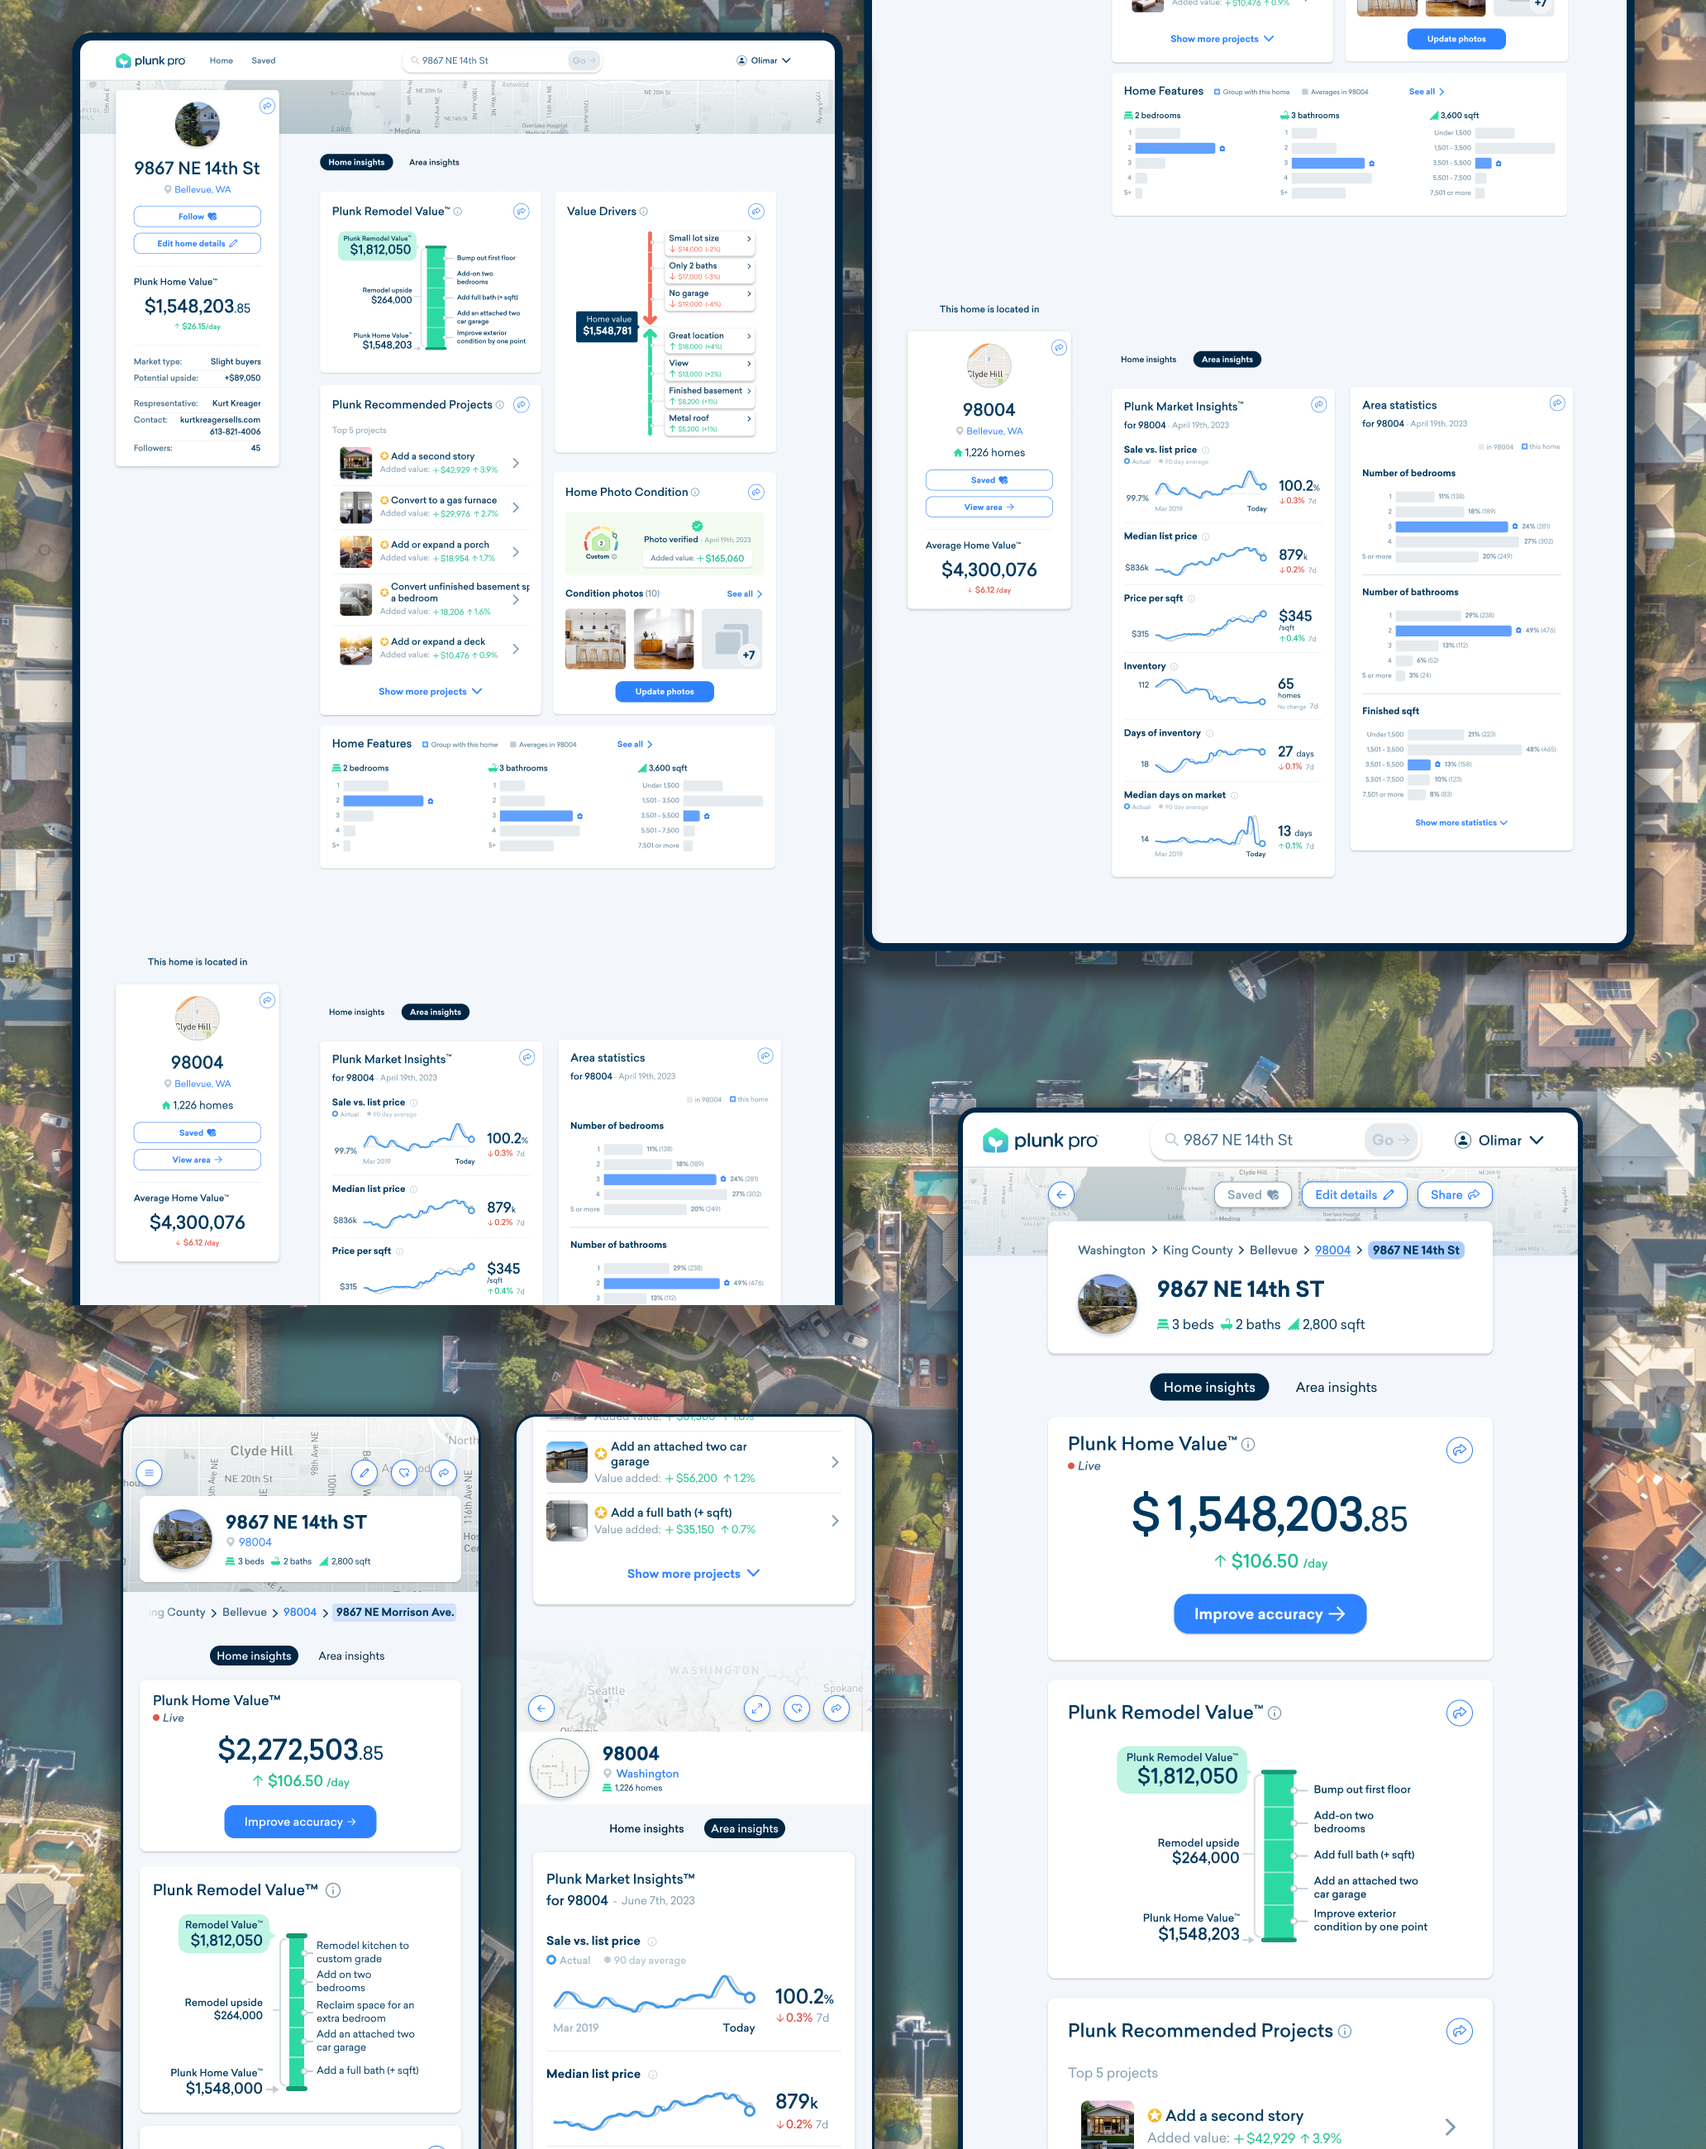
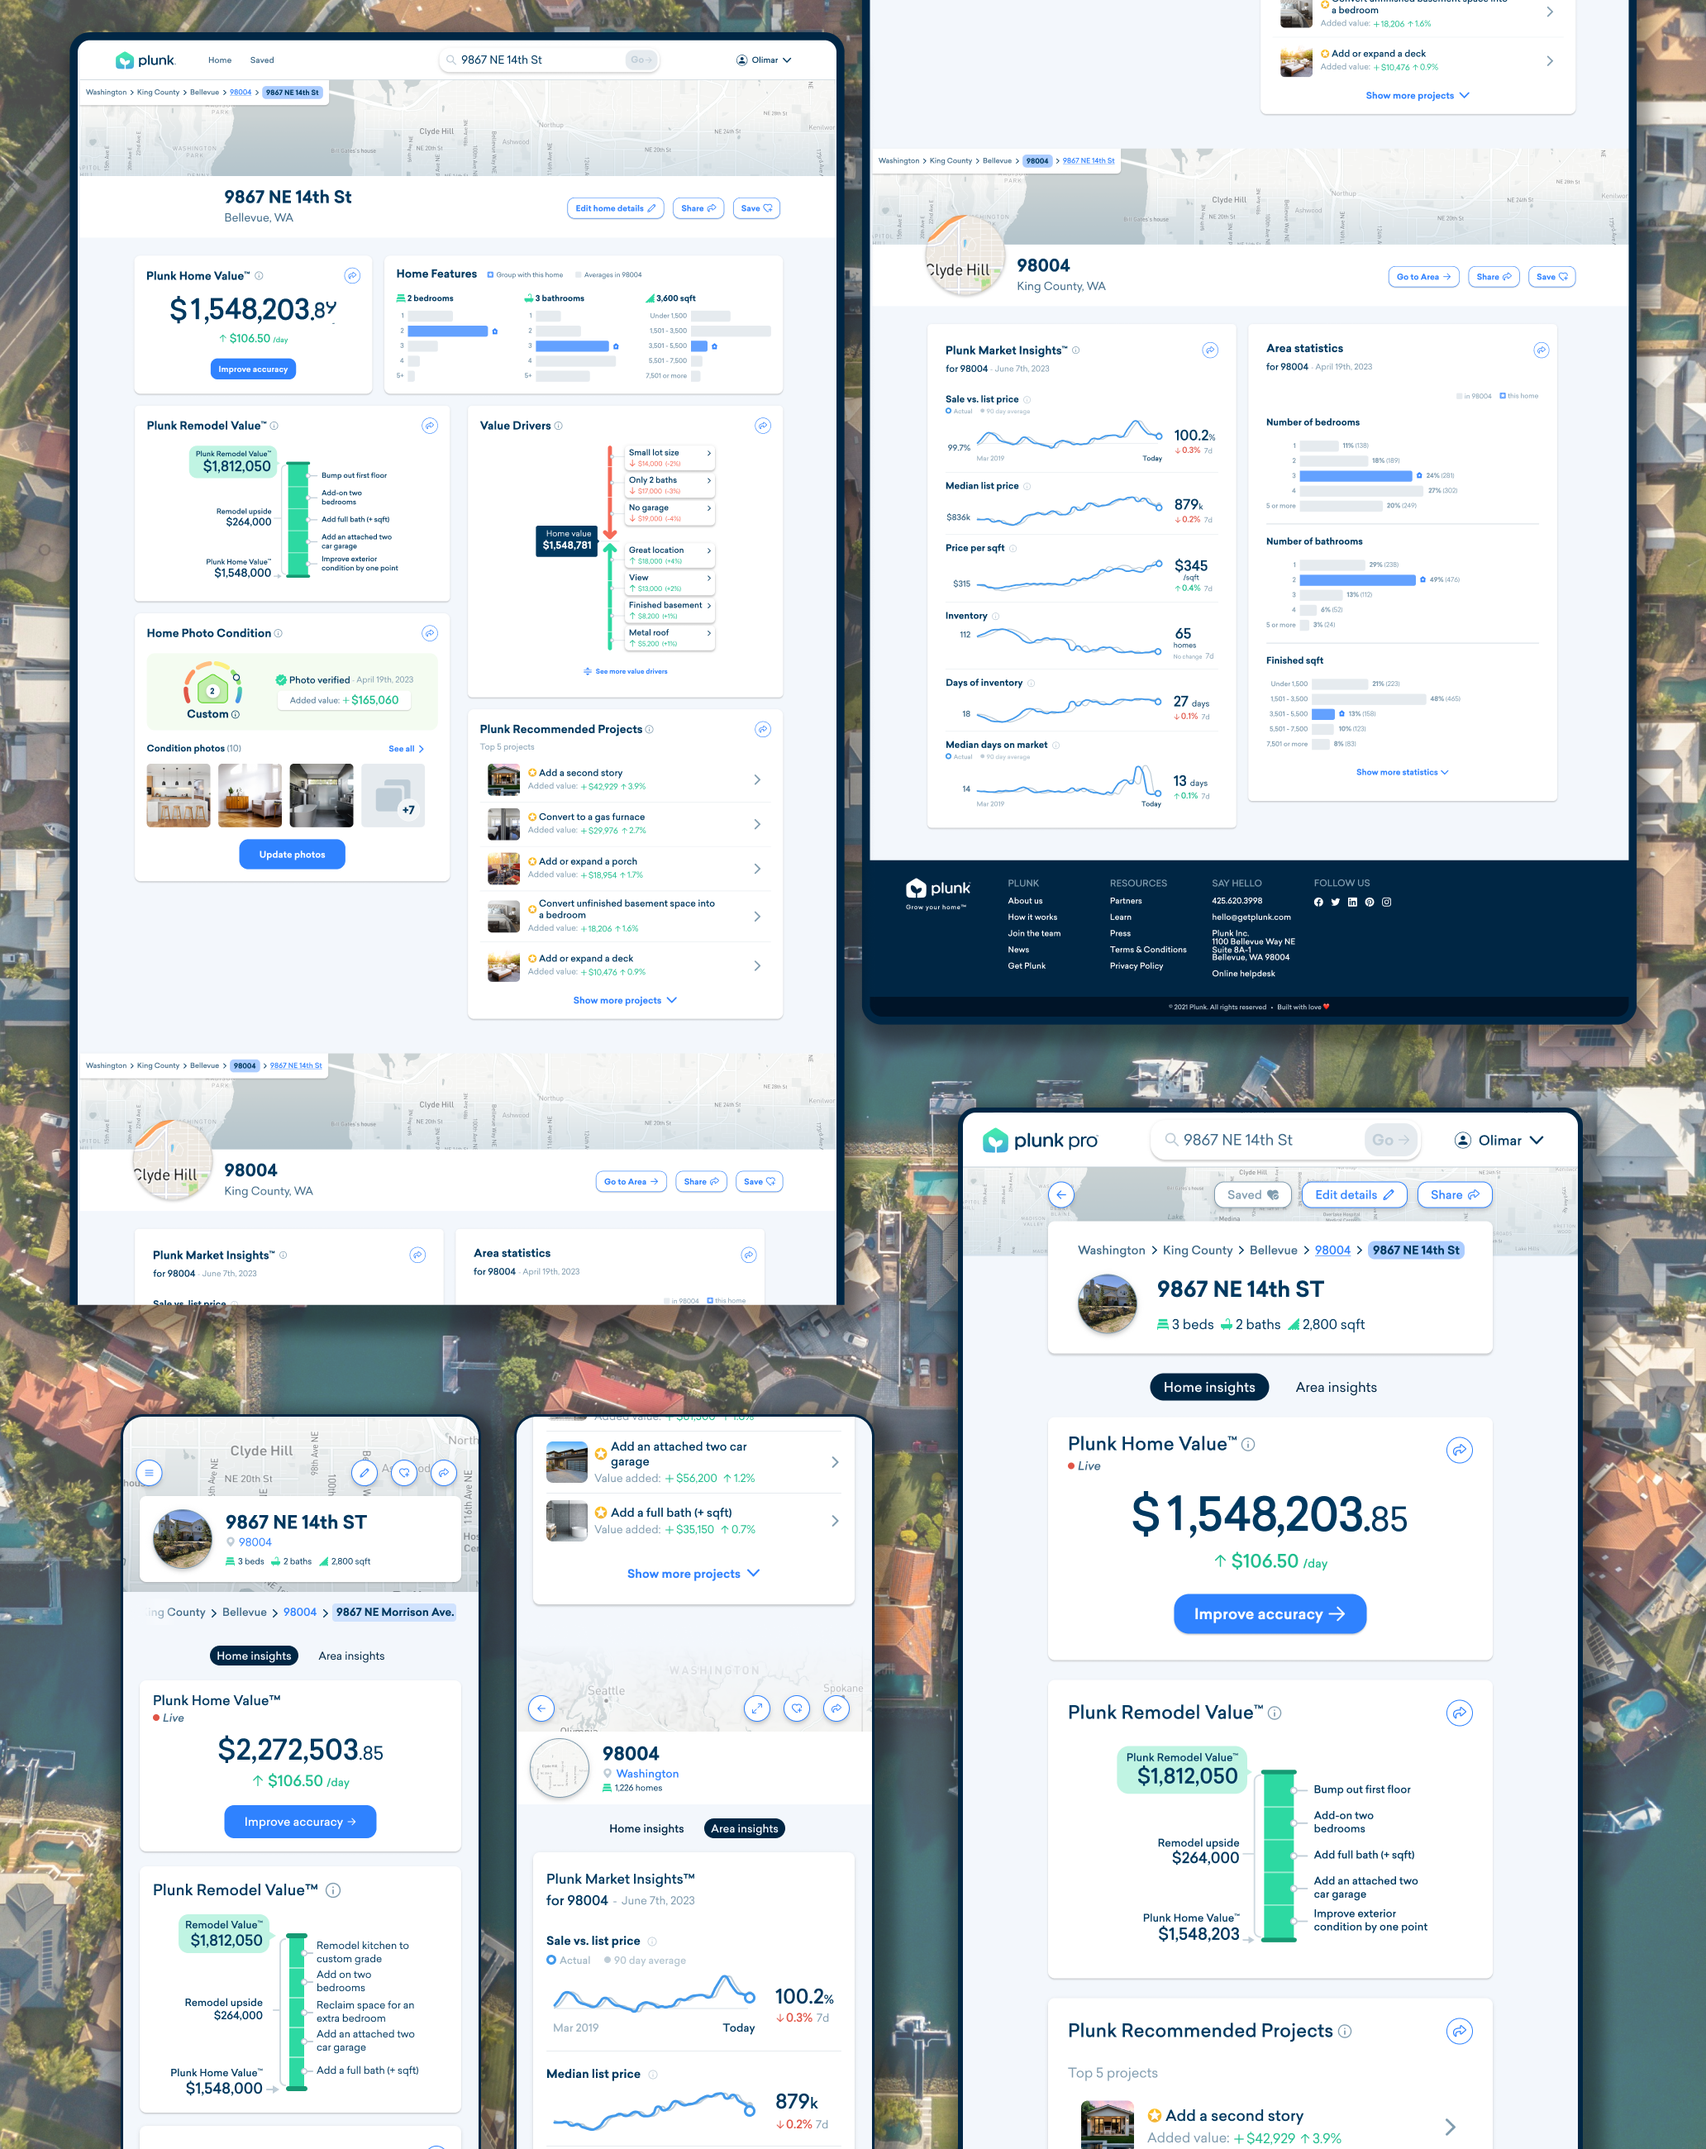
added plunk pro mobile assets

Changed region(s): [[0.031, 0.0, 0.9612, 0.6231], [0.4961, 0.1558, 0.9922, 0.4985], [0.6512, 0.0, 0.6822, 0.0312]]

diff --git a/plunk.html b/plunk.html
@@ -177,10 +177,43 @@
         Trustworthy, Approachable, & Fun.
     </h3>
 
+    <div class="linesRule"></div>
 
 
+    <div class="textSection">
+        <h2>Plunk Pro Mobile</h2>
+        <h3>With an audience of modern homeowners, we wanted to ensure that Plunk was accessible wherever they may be.
+            We designed and built a mobile application with a focus of usability and interaction.
+        </h3>
+    </div>
 
 
+    <div class="imageTextSection">
+        <div class="textSection">
+            <h2 class="leftText">
+                Mobile welcome experience
+            </h2>
+        </div>
+        <div class="imageBox">
+            <img src="assets/projectAssets/plunkAssets/plunk_gif_03.gif" alt="" height="800px">
+        </div>
+    </div>
+
+    <div class="imageTextSection">
+        <div class="imageBox">
+            <img src="assets/projectAssets/plunkAssets/plunk_image_06.png" alt="">
+        </div>
+    </div>
+
+    <div class="imageBox">
+        <img src="assets/projectAssets/plunkAssets/plunk_gif_04.gif" alt="" width="600px">
+    </div>
+    <div class="textSection">
+        <h4 class="centerText">Market insights expanded view on mobile</h4>
+    </div>
+
+
+    <div class="linesRule"></div>
 
 
 

diff --git a/css/plunk.css b/css/plunk.css
@@ -254,6 +254,7 @@ body {
 
   .centerText{
     text-align: center;
+    align-self: center;
   }
 
  .linesRule{
